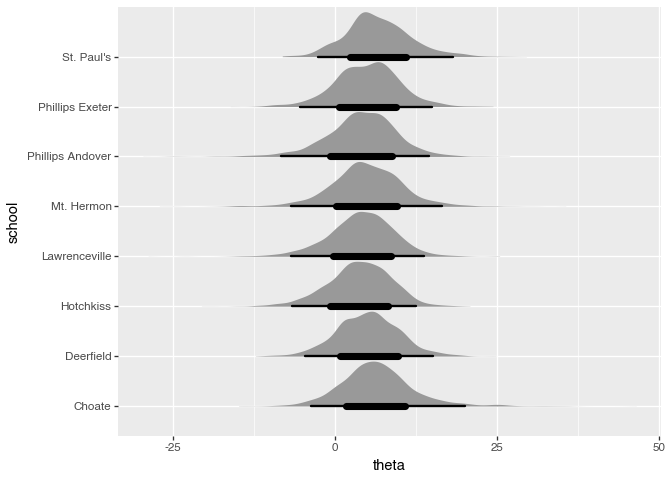
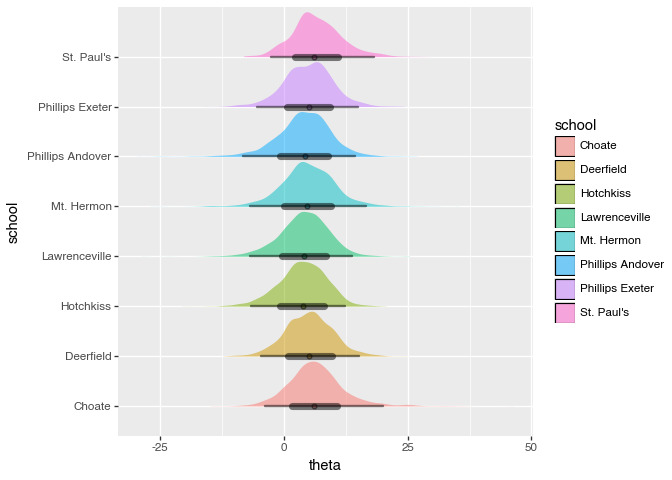
update readme moarrrr

diff --git a/README.md b/README.md
@@ -147,8 +147,8 @@ from raw draws.
 
 ``` python
 (
-    ggplot(draws, aes(x="theta", y="school"))
-    + bt.stat_halfeye()
+    ggplot(draws, aes(x="theta", y="school", fill="school"))
+    + bt.stat_halfeye(alpha=0.5)
     + labs(x="theta", y="school")
 )
 ```
